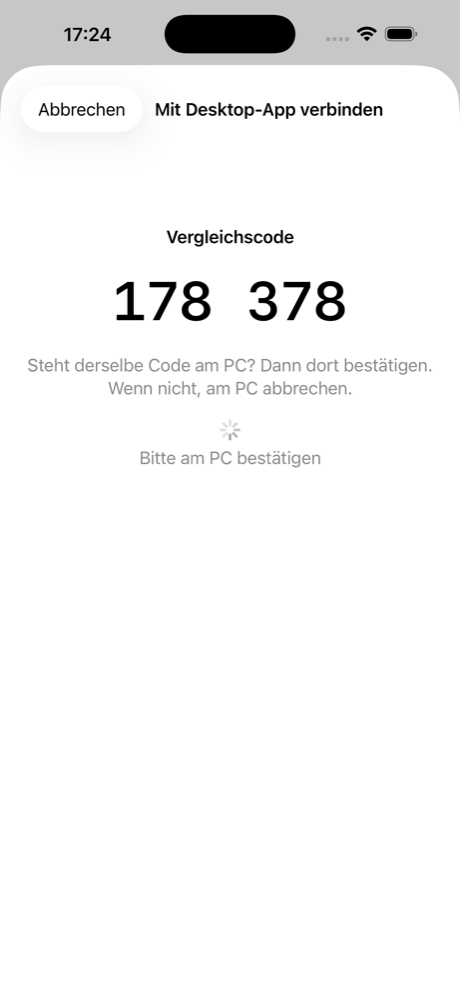
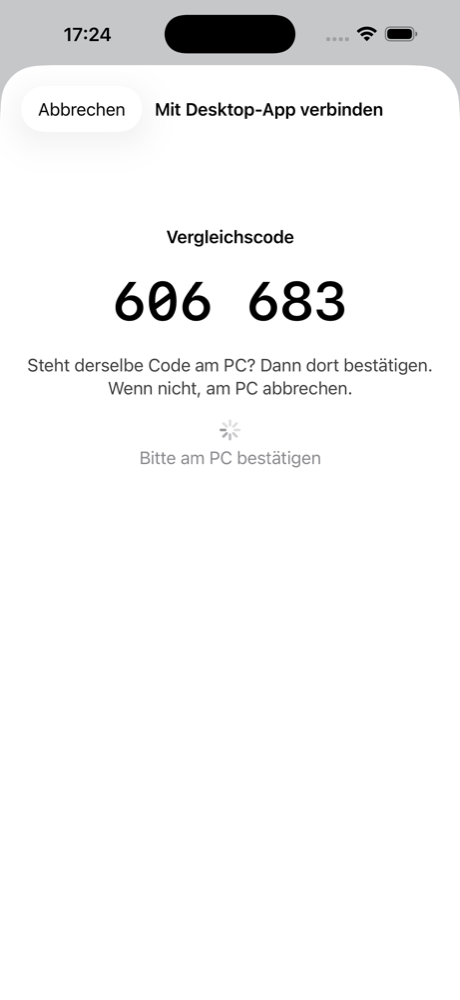
fix(ios): Kopplung: Hub-Frist ist Pflicht, Kontrast und Trefferflächen

Changed region(s): [[0.0609, 0.279, 0.913, 0.403]]

diff --git a/apps/apple/iPhone/Library/PairingFlow.swift b/apps/apple/iPhone/Library/PairingFlow.swift
@@ -238,7 +238,7 @@ private struct PairingSheet: View {
     private func progress(_ text: String) -> some View {
         VStack(spacing: 16) {
             ProgressView().controlSize(.large)
-            Text(text).foregroundStyle(.secondary)
+            Text(text).foregroundStyle(.primary.opacity(0.75))
         }.frame(maxWidth: .infinity, maxHeight: .infinity)
     }
 
@@ -266,7 +266,7 @@ private struct PairingSheet: View {
                     .lineLimit(1).minimumScaleFactor(0.5)
                     .accessibilityLabel(sas.map(String.init).joined(separator: " "))
                 Text("Steht derselbe Code am PC? Dann dort bestätigen. Wenn nicht, am PC abbrechen.")
-                    .multilineTextAlignment(.center).foregroundStyle(.secondary)
+                    .multilineTextAlignment(.center).foregroundStyle(.primary.opacity(0.75))
                 ProgressView("Bitte am PC bestätigen")
             }.padding(.horizontal, 24).padding(.vertical, 80).frame(maxWidth: .infinity)
         }
@@ -292,12 +292,13 @@ private struct PairingSheet: View {
                 Image(systemName: "checkmark.circle.fill").font(.largeTitle).imageScale(.large).foregroundStyle(.green)
                 Text("Verbunden").font(.title2.weight(.semibold))
                 Text("Angemeldet als \(email). Das iPhone gleicht jetzt ab.")
-                    .multilineTextAlignment(.center).foregroundStyle(.secondary)
+                    .multilineTextAlignment(.center).foregroundStyle(.primary.opacity(0.75))
                 if !confirmed {
                     Text("Ob die Bestätigung am PC angekommen ist, ist unklar. Er zeigt vielleicht eine Warnung. Das iPhone bleibt angemeldet.")
-                        .font(.footnote).multilineTextAlignment(.center).foregroundStyle(.secondary)
+                        .font(.footnote).multilineTextAlignment(.center).foregroundStyle(.primary.opacity(0.75))
                 }
-                Button("Fertig") { flow.close() }.buttonStyle(.borderedProminent).padding(.top, 24)
+                Button { flow.close() } label: { Text("Fertig").frame(minWidth: 120, minHeight: 44) }
+                    .buttonStyle(.borderedProminent).padding(.top, 24)
             }.padding(.horizontal, 24).padding(.vertical, 80).frame(maxWidth: .infinity)
         }
     }
@@ -308,8 +309,9 @@ private struct PairingSheet: View {
                 Image(systemName: "exclamationmark.triangle.fill").font(.largeTitle).imageScale(.large).foregroundStyle(.orange)
                 Text(message).multilineTextAlignment(.center)
                 Text("Die Anmeldung mit Passwort bleibt in „Konto & Sync“ möglich.")
-                    .font(.footnote).multilineTextAlignment(.center).foregroundStyle(.secondary)
-                Button("Neuen Code scannen") { flow.startScan() }.buttonStyle(.borderedProminent).padding(.top, 24)
+                    .font(.footnote).multilineTextAlignment(.center).foregroundStyle(.primary.opacity(0.75))
+                Button { flow.startScan() } label: { Text("Neuen Code scannen").frame(minHeight: 44) }
+                    .buttonStyle(.borderedProminent).padding(.top, 24)
             }.padding(.horizontal, 24).padding(.vertical, 80).frame(maxWidth: .infinity)
         }
     }
@@ -323,7 +325,7 @@ private struct PairingScanStep: View {
         VStack(spacing: 12) {
             scanner
             Text("Am PC unter Einstellungen › Konto & Geräte auf „Handy verbinden“ gehen und den Code ins Bild halten.")
-                .font(.footnote).multilineTextAlignment(.center).foregroundStyle(.secondary)
+                .font(.footnote).multilineTextAlignment(.center).foregroundStyle(.primary.opacity(0.75))
             TextField("Gerätename", text: $flow.deviceName).textFieldStyle(.roundedBorder)
         }
         .padding(16)

diff --git a/apps/apple/VoiceCore/Sources/VoiceCore/Pairing.swift b/apps/apple/VoiceCore/Sources/VoiceCore/Pairing.swift
@@ -285,15 +285,14 @@ public struct PairingSession: Sendable {
         let phonePublic = [UInt8](phoneKey.publicKey.rawRepresentation)
         await stage(.claiming)
         let (poll, expires) = try await claim(phonePublic)
+        guard expires > now() else { throw PairingError.expired }
         await stage(.waitingForDesktop)
 
         var desktopNonce: [UInt8]?
         var revealTries = 0
         var lostContact = false
         let started = now()
-        // Frist des Hubs. Liegt sie schon zurück, geht die Uhr hier falsch: dann gilt nur die Obergrenze.
-        let limit = started.addingTimeInterval(Self.maxSeconds)
-        let deadline = expires.flatMap { $0 > started ? min($0, limit) : nil } ?? limit
+        let deadline = min(expires, started.addingTimeInterval(Self.maxSeconds))
         func wait() async throws {
             let left = deadline.timeIntervalSince(now())
             try await pause(min(Self.pollNanos, UInt64(max(0, left) * 1_000_000_000)))
@@ -355,7 +354,7 @@ public struct PairingSession: Sendable {
         throw lostContact ? PairingError.offline : PairingError.timedOut
     }
 
-    private func claim(_ phonePublic: [UInt8]) async throws -> (poll: String, expires: Date?) {
+    private func claim(_ phonePublic: [UInt8]) async throws -> (poll: String, expires: Date) {
         let commitment = PairingProto.commitment(id: code.id, phonePublic: phonePublic, phoneNonce: phoneNonce, name: name)
         let mac = code.q.use { PairingProto.claimMac(q: $0, id: code.id, commitment: commitment) }
         let answer: (Int, Data)
@@ -372,8 +371,11 @@ public struct PairingSession: Sendable {
         switch answer.0 {
         case 200:
             guard let json = (try? JSONSerialization.jsonObject(with: answer.1)) as? [String: Any],
-                  let poll = json["poll_token"] as? String, !poll.isEmpty else { throw PairingError.badResponse }
-            return (poll, (json["expires_at"] as? String).flatMap { ISO8601DateFormatter().date(from: $0) })
+                  let poll = json["poll_token"] as? String, !poll.isEmpty,
+                  let expires = (json["expires_at"] as? String).flatMap({ ISO8601DateFormatter().date(from: $0) }) else {
+                throw PairingError.badResponse
+            }
+            return (poll, expires)
         case 410: throw PairingError.expired
         case 400:
             let error = ((try? JSONSerialization.jsonObject(with: answer.1)) as? [String: Any])?["error"] as? [String: Any]

diff --git a/apps/apple/VoiceCore/Tests/VoiceCoreTests/PairingTests.swift b/apps/apple/VoiceCore/Tests/VoiceCoreTests/PairingTests.swift
@@ -399,6 +399,15 @@ final class PairingTests: XCTestCase {
         XCTAssertFalse(confirmed, "nur 200 ist eine Bestätigung")
     }
 
+    func testClaimNeedsValidFutureExpiry() async {
+        let past = FakeHub()
+        await past.set { $0.expiresAt = "2020-01-01T00:00:00Z" }
+        await assertFails(past, .expired)
+        let broken = FakeHub()
+        await broken.set { $0.expiresAt = "bald" }
+        await assertFails(broken, .badResponse)
+    }
+
     func testSecretIsWipedAfterRun() async throws {
         let hub = FakeHub()
         let code = try await hub.code

diff --git a/apps/apple/scripts/mock_pairing.py b/apps/apple/scripts/mock_pairing.py
@@ -5,7 +5,7 @@ Eigene, unabhängige Umsetzung von X25519 und XChaCha20-Poly1305 in reinem Pytho
 damit die Probe nichts installieren muss und die Swift-Seite gegen zweite Quelle
 läuft. `python3 mock_pairing.py <vektoren.json>` prüft sie gegen die Testvektoren.
 Spec: docs/superpowers/specs/2026-11-05-geraete-kopplung-qr.md, Abschnitt 4.3."""
-import base64, hashlib, hmac, json, os, struct, sys, urllib.parse
+import base64, datetime, hashlib, hmac, json, os, struct, sys, urllib.parse
 
 P = 2**255 - 19
 
@@ -103,7 +103,8 @@ class Desktop:
         c = unb64u(b["phone_commit"])
         if mac(self.q, b"LV-PAIR-CLAIM-v2", self.id.encode(), c) != unb64u(b["phone_mac"]): return 400, {}
         self.c, self.name, self.status = c, b["device_name"], "challenged"
-        return 200, {"poll_token": "poll", "expires_at": 0}
+        ends = datetime.datetime.now(datetime.timezone.utc) + datetime.timedelta(seconds=120)
+        return 200, {"poll_token": "poll", "expires_at": ends.strftime("%Y-%m-%dT%H:%M:%SZ")}
 
     def reveal(self, b):
         if self.status != "challenged": return 410, {}
